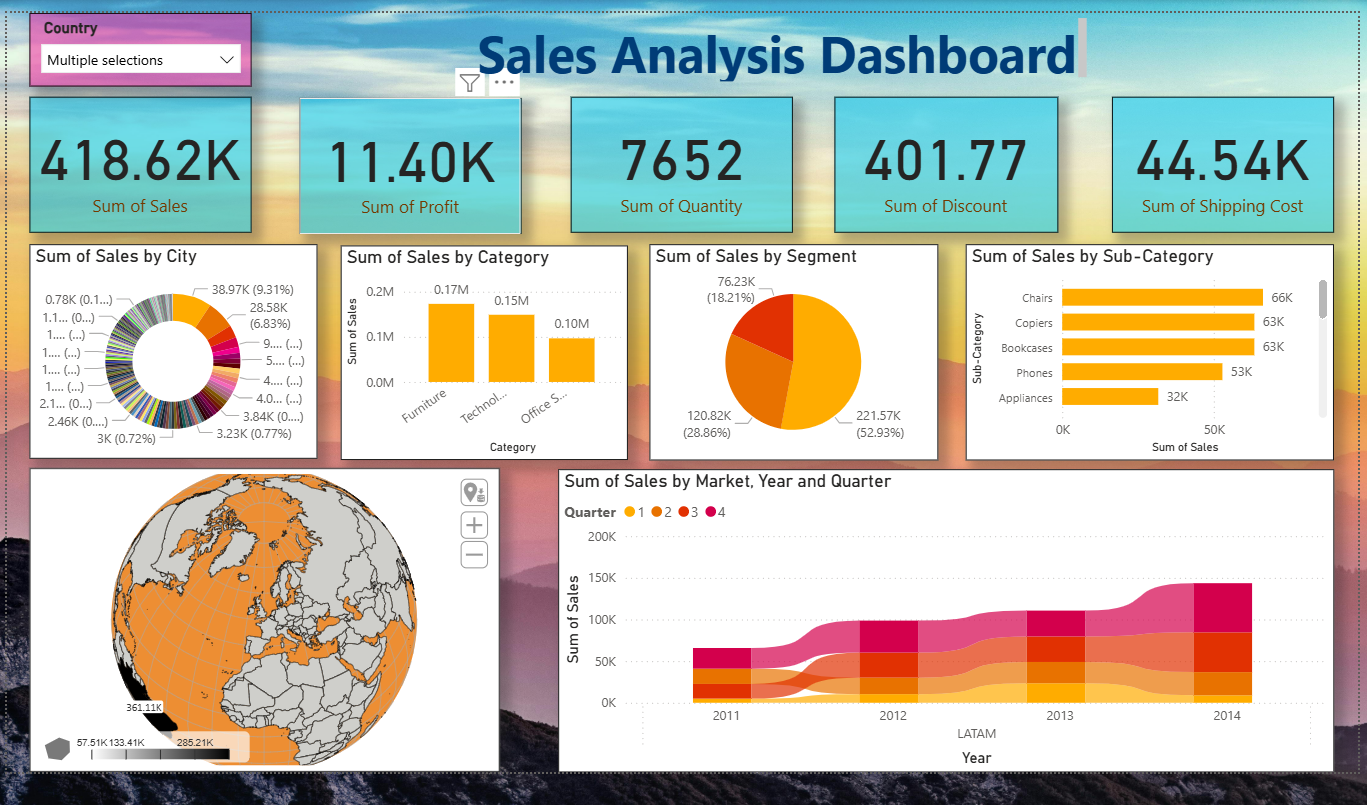
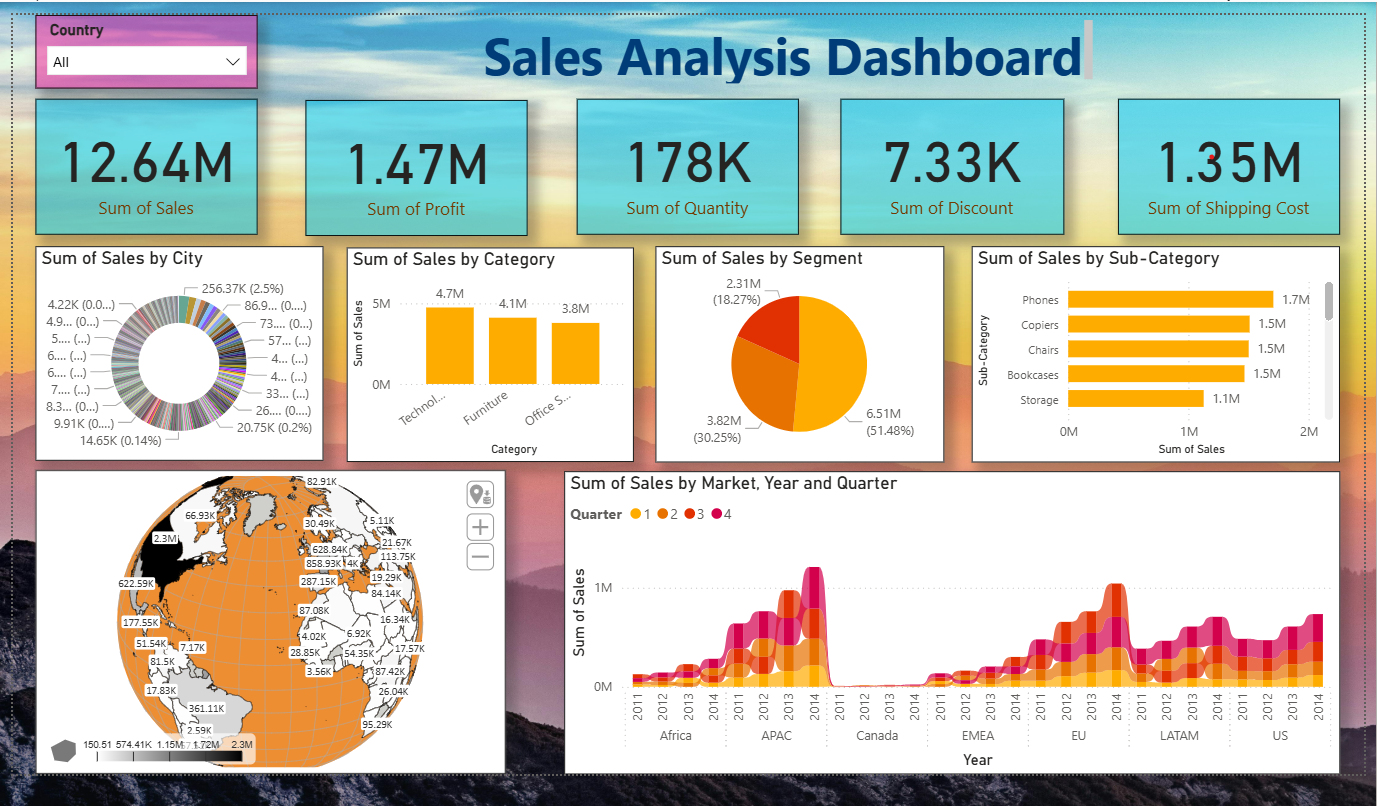
changes

Changed region(s): [[0.0, 0.0, 1.0, 1.0], [0.3994, 0.6832, 0.4609, 0.8385], [0.5838, 0.9938, 0.6145, 1.0]]

diff --git a/README.md b/README.md
@@ -1,53 +1,27 @@
 # 📊 Sales Analysis Dashboard — Power BI
 
-A multi-page **Power BI dashboard** analyzing global sales performance across **147 countries** using the *Global Superstore* dataset (~51K+ orders, 2011–2014). Features two interactive pages — a **Sales Overview** with geographic and segment breakdowns, and a **Monthly & Yearly Sales Analysis** with time-series trends, category treemaps, and return tracking.
+An end-to-end **Power BI dashboard** analyzing global sales performance using the *Global Superstore* dataset. The dashboard provides interactive, drill-down insights into regional revenue trends, product-level profitability, shipping efficiency, and key performance indicators (KPIs) to support data-driven business decisions.
 
 ---
 
 ## 🖥 Dashboard Preview
 
-### Page 1 — Sales Overview
-![Sales Overview Dashboard](screenshots/sales_overview.png)
+| Overview | Monthly and Yearly Sales |
+|----------|------------|
+| ![Dashboard Overview](screenshots/sales_overview.png) | ![Monthly and Yearly Sales](screenshots/monthly_yearly_sales.png) |
 
-### Page 2 — Monthly & Yearly Sales Analysis
-![Monthly and Yearly Sales](screenshots/monthly_yearly_sales.png)
 
----
+## 🎯 Key Features
 
-## 🎯 Dashboard Pages & Features
-
-### Page 1 — Sales Overview
-| KPI | Value |
-|-----|-------|
-| Sum of Sales | **418.62K** |
-| Sum of Profit | **11.40K** |
-| Sum of Quantity | **7,652** |
-| Sum of Discount | **401.77** |
-| Sum of Shipping Cost | **44.54K** |
-
-- **Sales by City** — Donut chart showing revenue distribution across cities
-- **Sales by Category** — Bar chart comparing Furniture, Technology, and Office Supplies
-- **Sales by Segment** — Pie chart: Consumer (52.93%), Corporate (28.86%), Home Office (18.21%)
-- **Sales by Sub-Category** — Horizontal bar chart highlighting top products (Chairs, Copiers, Bookcases, Phones, Appliances)
-- **Geographic Map** — Interactive globe visualization with sales volume by region
-- **Sales by Market, Year & Quarter** — Stacked area chart showing quarterly trends across markets (2011–2014)
-- **Country Slicer** — Filter the entire page by country selection
-
-### Page 2 — Monthly & Yearly Sales Analysis
-| KPI | Value |
-|-----|-------|
-| Sum of Sales | **12.64M** |
-| Sum of Profit | **1.47M** |
-| Sum of Quantity | **178K** |
-| Sum of Discount | **7.33K** |
-| Count of Countries | **147** |
-| Count of Returned | **1,173** |
-
-- **Sales & Profit by Month** — Dual-axis bar & line chart comparing monthly sales vs. profit
-- **Sales by Category & Sub-Category** — Treemap visualization (Technology, Furniture, Office Supplies with sub-categories)
-- **Sales by Month** — Area chart with monthly sales trend line
-- **Year Slicer** — Filter by year (2011, 2012, 2013, 2014)
-- **Month Slicer** — Filter by individual month (January–December)
+- **Revenue KPIs** — Total Sales (12.64M), Total Profit (1.47M), Quantity (178K), Total Discount (7.33K), and Shipping Cost (1.35M) at a glance
+- **Geographic Analysis** — Interactive globe map showing sales distribution across countries worldwide
+- **City-Level Breakdown** — Donut chart highlighting sales contribution by top cities
+- **Product Performance** — Sales by Category (Technology, Furniture, Office Supplies) and top Sub-Categories (Phones, Copiers, Chairs, Bookcases, Storage)
+- **Market & Quarterly Trends** — Stacked area chart showing sales by Market (Africa, APAC, Canada, EMEA, EU, LATAM, US) across Years and Quarters
+- **Monthly & Yearly Analysis** — Dedicated page with month-over-month sales and profit trends, year/month slicers, and category treemap
+- **Customer Segments** — Revenue distribution across Consumer (51.48%), Corporate (30.25%), and Home Office (18.27%) segments
+- **Interactive Filtering** — Country slicer for dynamic filtering, plus Year and Month slicers on the detailed analysis page
+- **Multi-Page Dashboard** — Overview page for high-level insights and a detailed Monthly & Yearly Sales Analysis page
 
 ---
 
@@ -128,16 +102,18 @@ Sales-Analysis-Dashboard/
 
 ---
 
+---
+
 ## 📌 Key Insights
 
-- 📊 **Consumer segment dominates** — accounting for **52.93%** of total sales, followed by Corporate (28.86%) and Home Office (18.21%)
-- 🪑 **Chairs lead sub-category sales** at **66K**, closely followed by Copiers and Bookcases at 63K each
-- 📈 **Sales peak in November & December** — with **1.73M** and **1.75M** respectively, indicating strong seasonal/holiday demand
-- 📉 **February is the weakest month** — recording only **0.61M** in sales across all years
-- 🌎 **LATAM shows strong quarterly growth** — Q4 sales nearly doubled from 2011 to 2014
-- 🔄 **1,173 orders were returned** across 147 countries — a metric worth monitoring for operational improvements
-- 💰 **Profit margin is relatively thin** — total profit of **1.47M** on **12.64M** sales (~11.6%) suggests high discount impact (7.33K total discount)
-- 🏢 **Technology category leads revenue** — with Phones (1.71M) and Copiers (1.51M) as top technology sub-categories
+- 📈 **Technology** is the highest revenue-generating category at **4.7M**, followed by Furniture (4.1M) and Office Supplies (3.8M)
+- 📱 **Phones** lead sub-category sales at **1.7M**, followed by Copiers (1.5M) and Chairs (1.5M)
+- 👥 **Consumer** segment dominates with **51.48%** of total sales (6.51M), followed by Corporate (30.25%) and Home Office (18.27%)
+- 🌍 **APAC** is the top-performing market, with noticeable quarterly spikes in Q4
+- 📅 **November & December** consistently show the highest monthly sales (1.73M and 1.75M respectively)
+- 📊 Sales show a clear **upward trend** from 2011 to 2014 across all markets
+- 🔄 **1,173 returned orders** out of 178K total — a return rate worth monitoring
+- 🌐 Sales span across **147 countries**, with major concentration in US, APAC, and EU regions
 
 ---
 
